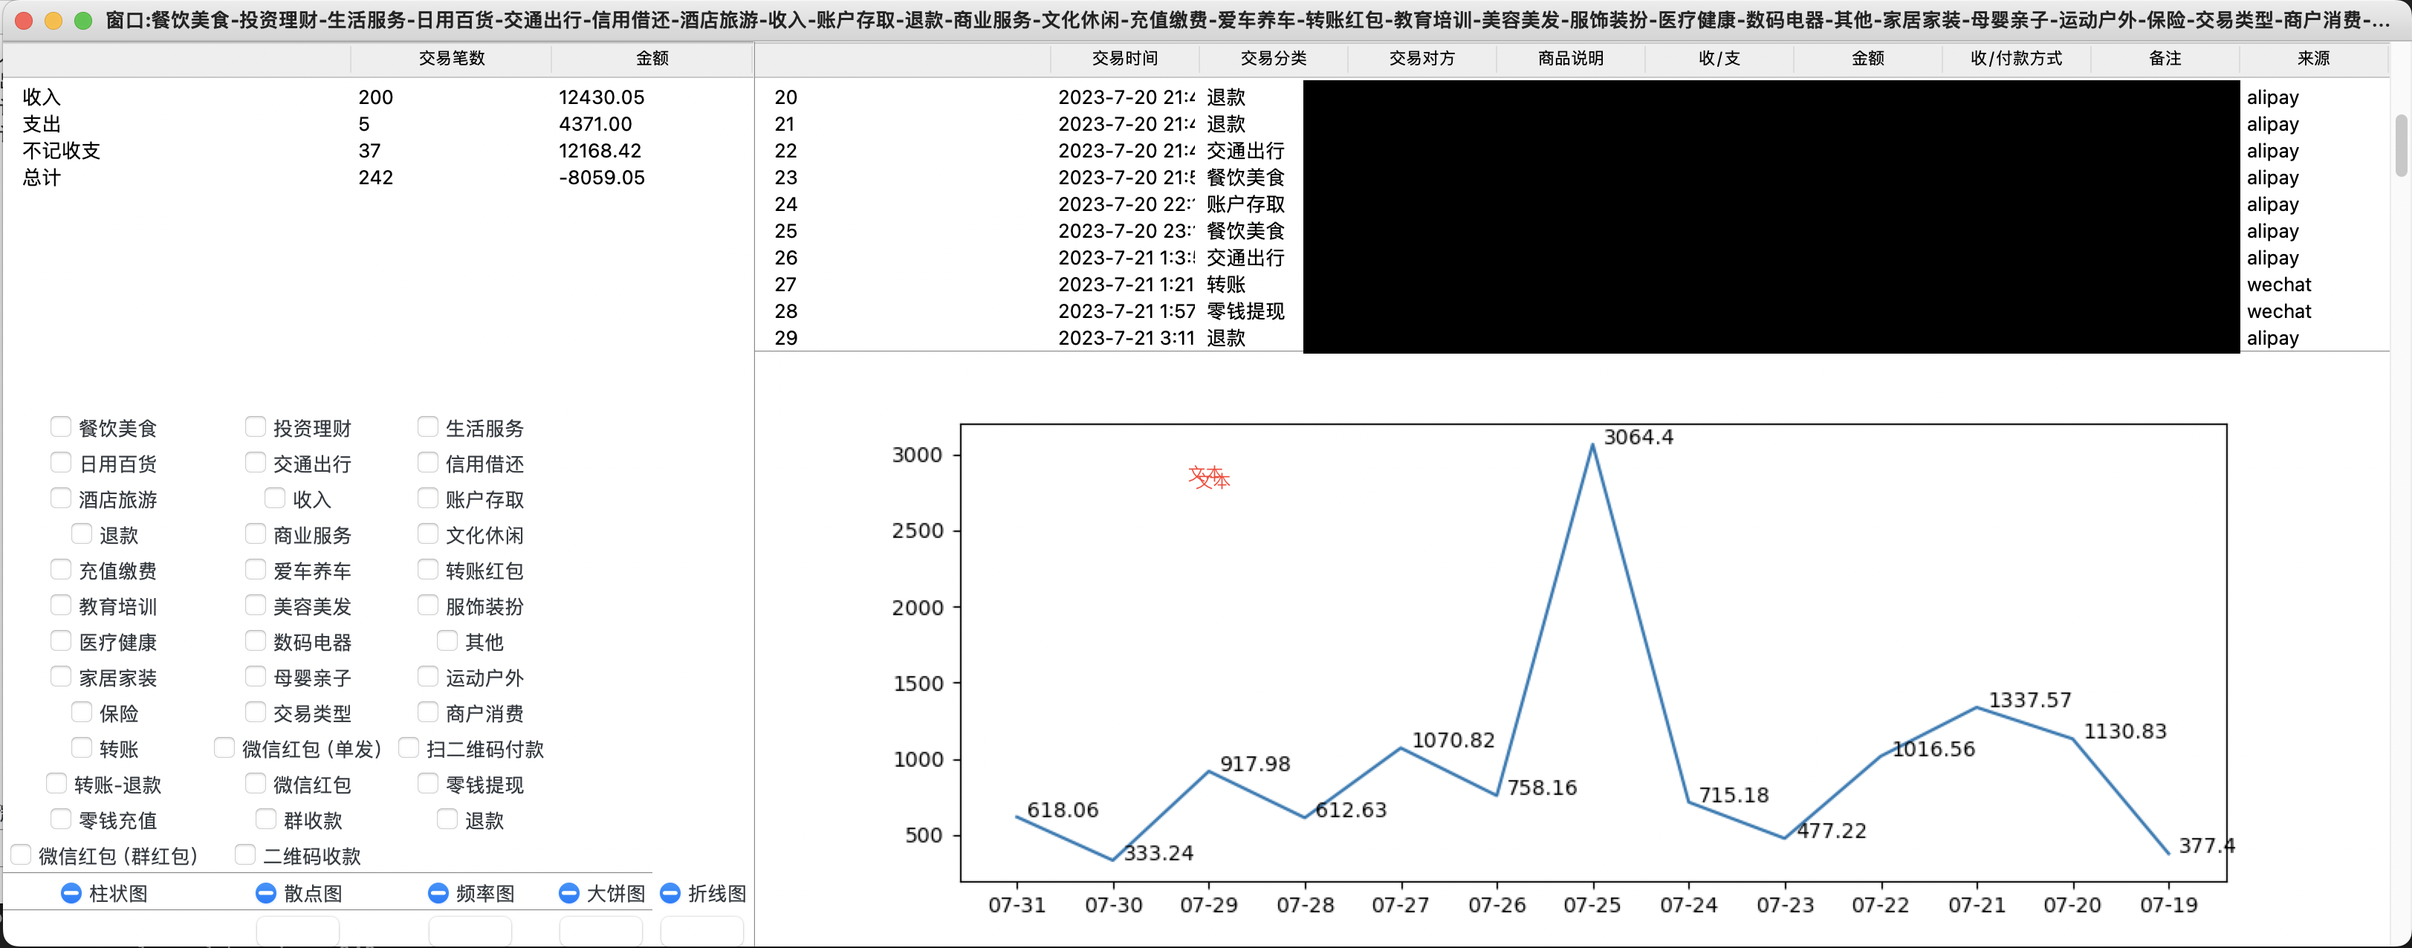
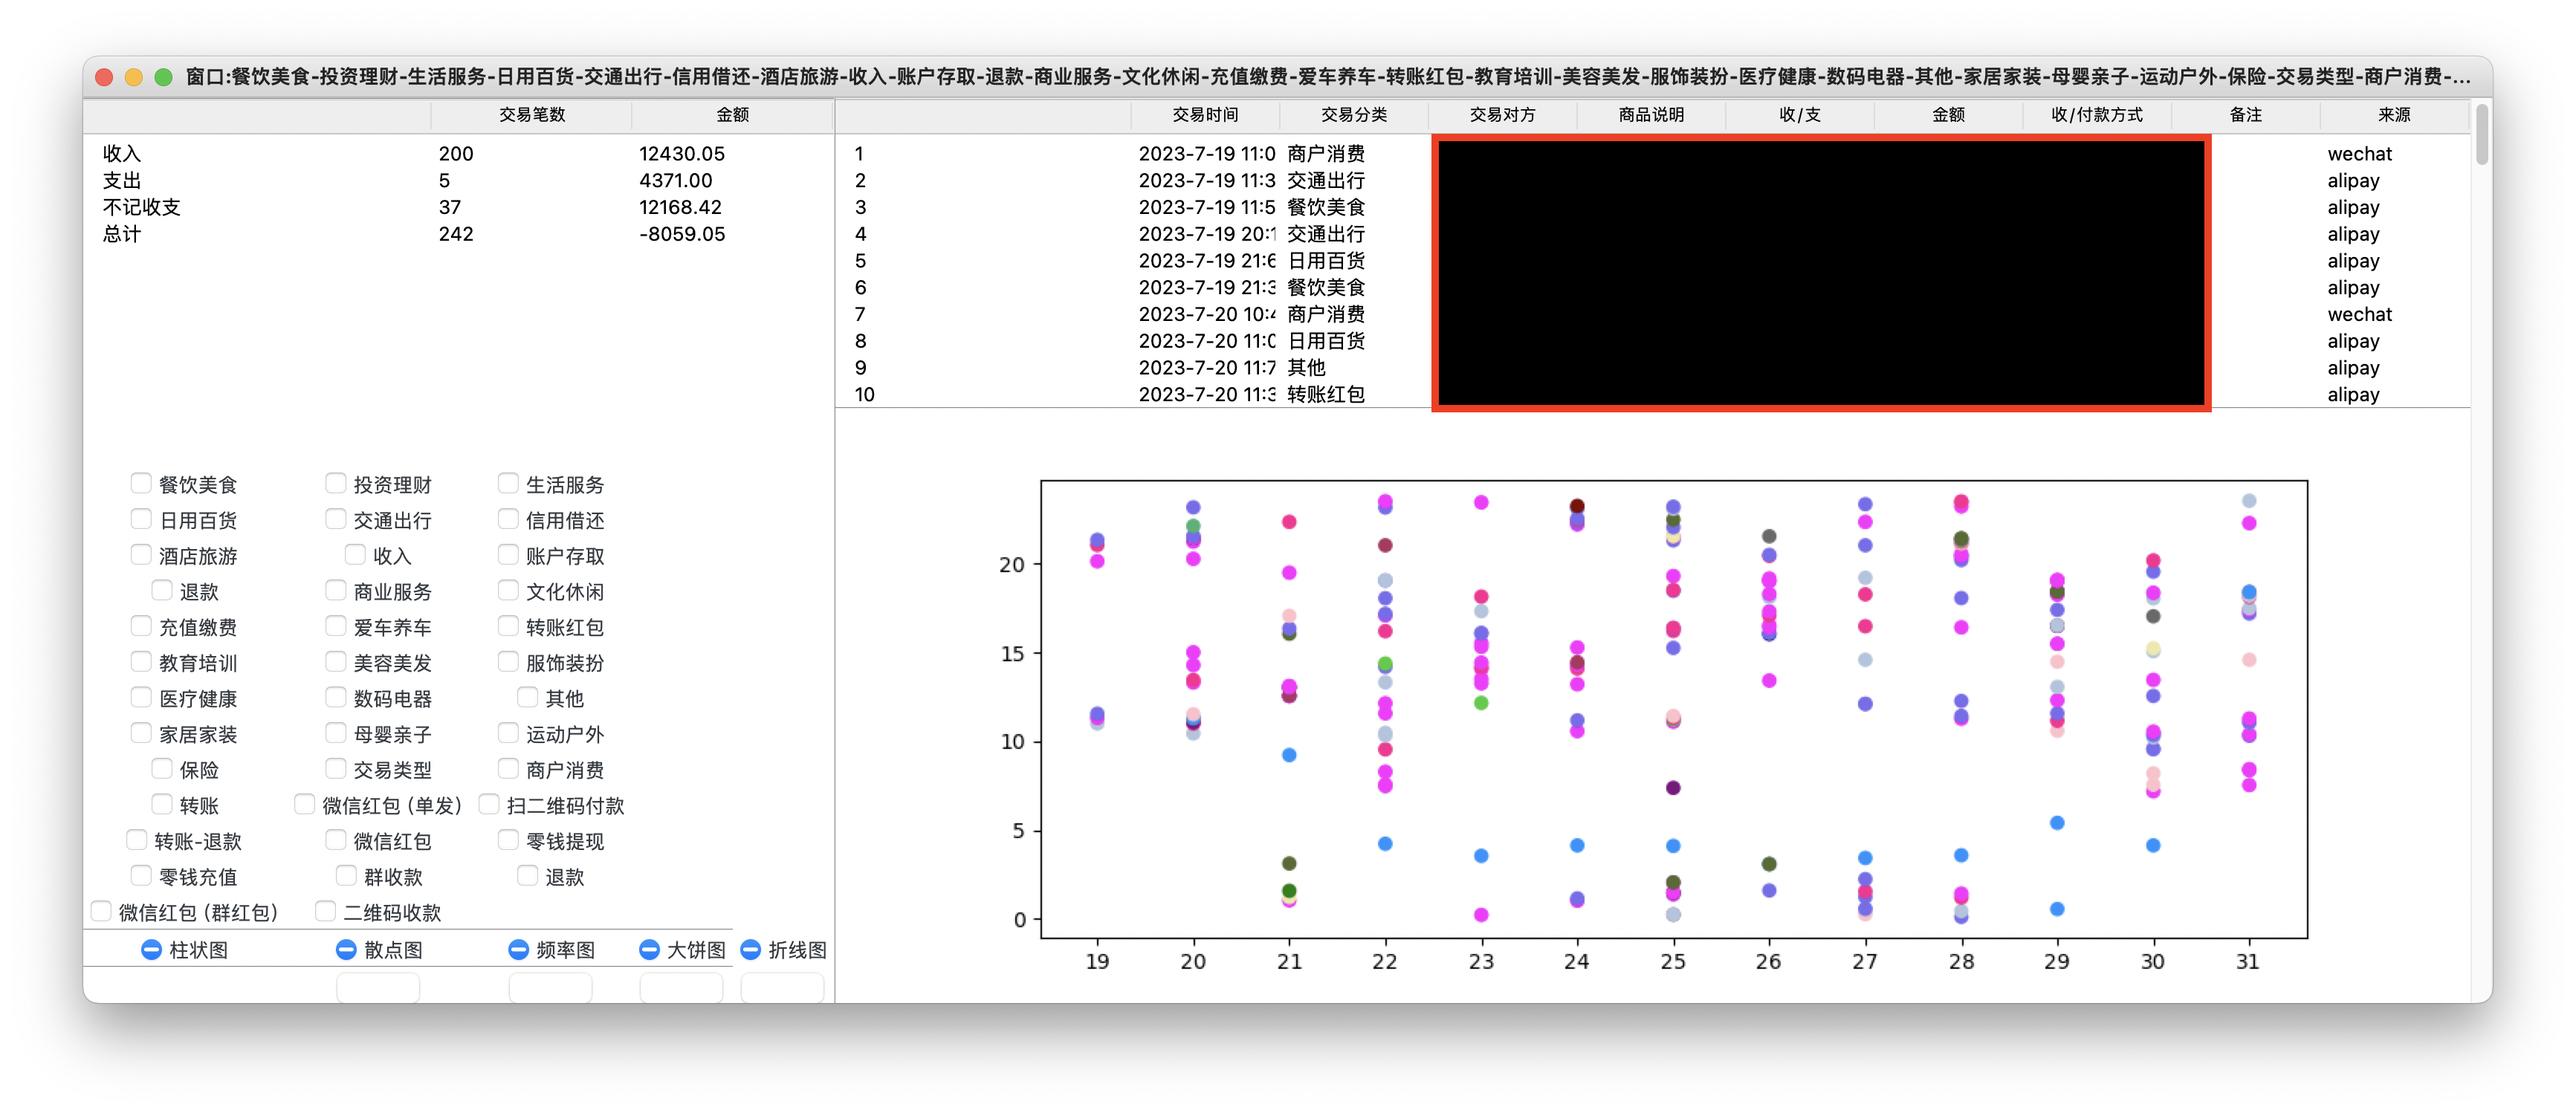
Add images

diff --git a/src/gui/ui/detail_page.py b/src/gui/ui/detail_page.py
@@ -151,6 +151,8 @@ def genartion_line_chart_image(transactions: list) -> Figure:
         datas.append(label)
         new_delete_year.append(label.split("-")[1] + "-" + label.split("-")[2])
 
+    new_delete_year.reverse()
+    nums.reverse()
     # 创建折线图
     ax.plot(new_delete_year, nums)
     for i, txt in enumerate(nums):
@@ -260,7 +262,7 @@ def full_button(window: tk.Frame, transactions: list) -> tk.Frame:
         
         print_log(f"save to csv.")
         transactions_info = []
-        for transaction in transactions:
+        for transaction in reversed(transactions):
             if isinstance(transaction, Transaction):
                 transaction_info = transaction.to_list()
                 transactions_info.append(transaction_info)

diff --git a/README.md b/README.md
@@ -18,12 +18,20 @@
 
 ## 自定义查询时间
 
+## 散点图
+
+![img](./images/index_06.png)
+
 ## 频率图
 
+![img](./images/index_07.png)
+
 ## 饼图
+
+![img](./images/index_08.png)
 
 ## 单独分析某几类
 
 ## 折线图
 
-![img](./images/index_06.png)
+![img](./images/index_09.png)
